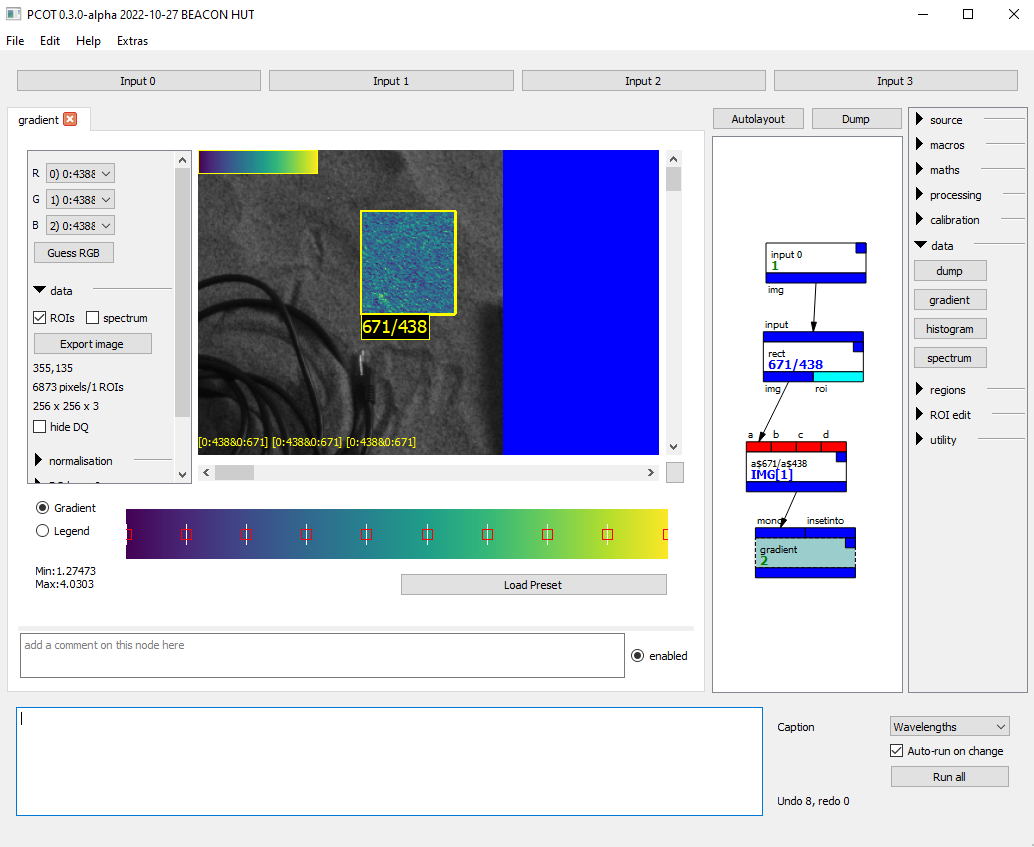
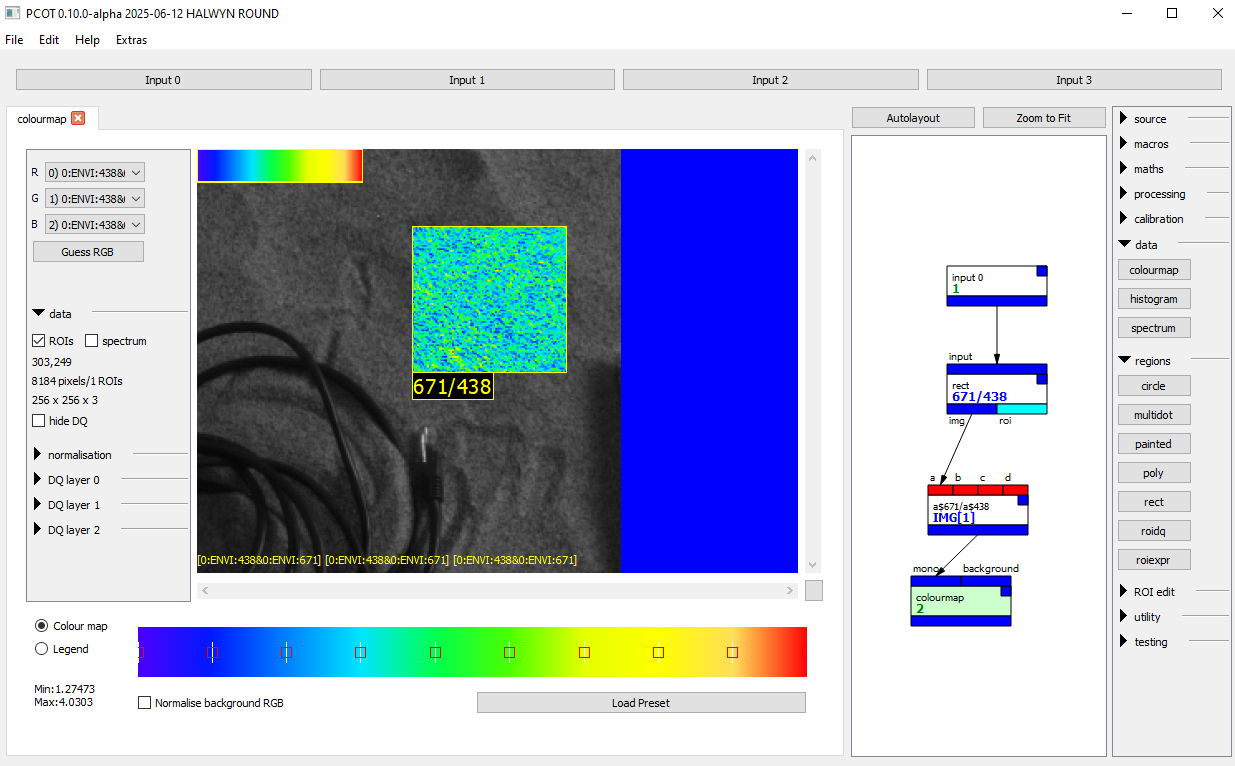
changes to docs for gradient rename to colourmap

diff --git a/mkdocs/docs/gettingstarted/tutorial.md b/mkdocs/docs/gettingstarted/tutorial.md
@@ -323,29 +323,29 @@ It can be hard to adjust the rectangle when you can't see what's happening in th
 on the tab, so you can edit
 the rectangle while the *expr* output is visible. ==Dock it again by closing the undocked window==.
 
-To make things more visible still, ==open the *data* section and add a *gradient* node after the *expr* node and view it==, clicking
+To make things more visible still, ==open the *data* section and add a *colourmap* node after the *expr* node and view it==, clicking
 making sure **Show ROIs** is enabled on its canvas (ROIs are typically retained on derived
 images):
 
-![!R671_438 with a rectangle and gradient|R671_438d](R671_438d.png)
+![!R671_438 with a rectangle and colourmap|R671_438d](R671_438d.png)
 
+The *colourmap* node creates a false colour image.
 There's not much to see because of the nature of the image, unfortunately! Note that there is a "legend"
 at top left, and this can be ==edited and placed by clicking on the Legend button==:
 
-![!R671_438 with a better gradient legend|R671_438da](R671_438da.png)
+![!R671_438 with a better colourmap legend|R671_438da](R671_438da.png)
 
-The colour palette for the gradient, incidentally, is the "viridis" palette which is helpful for people
+The colour palette for the colourmap, incidentally, is the "viridis" palette which is helpful for people
 with certain kinds of colour blindness[^2]. Other presets are available
-by clicking on the **Load Preset** button, or you can edit the gradient
+by clicking on the **Load Preset** button, or you can edit the colour "gradient"
 by hand: double-click to add or remove a point, drag to move a point.
 
-
-It is possible to "inset" the gradient into the RGB representation used in the *input* node by passing
-that to the *insetinto* input of the gradient:
+It is possible to "inset" the false colour image from *colourmap* into the RGB representation used in the *input* node by passing
+that to the *background* input of the *colourmap*:
 
 ![!R671_438 inset into source image RGB representation|R671_438e](R671_438e.png)
 
-If you ==switch to the Legend part of the *gradient* node== and
+If you ==switch to the Legend part of the *colourmap* node== and
 ==select *Left margin* for the **Legend** item==, when you ==export the image==
 with the canvas' Export Image button the legend will be in the margin:
 

diff --git a/mkdocs/docs/gettingstarted/concepts.md b/mkdocs/docs/gettingstarted/concepts.md
@@ -32,8 +32,8 @@ has a direction, going from the output of one node to the input
 of another, and there can't be any loops.
 
 As an example, consider that we might want
-to overlay some kind of spectral parameter map, converted to a colour
-gradient, over an RGB image (note: I'm not a geologist, I'm a software
+to overlay some kind of spectral parameter map, converted to a false colour image
+and inset into an RGB image (note: I'm not a geologist, I'm a software
 engineer, so perhaps this is a very artificial example). One way to do it
 might be this:
 
@@ -60,7 +60,7 @@ calculates the result of a mathematical expression performed on each pixel. The 
 is running: ```a$671 / a$438```.
 This will read the bands whose wavelengths are 671nm and 438nm in the node's *a* input, and find their ratio for every pixel.
 The result will be a single-band image. *Expr* nodes can perform much more complex calculations than this.
-* The *gradient* node will convert a single-band image into an RGB image with a user-defined gradient and
+* The *colourmap* node will convert a single-band image into an RGB image with a user-defined "gradient" map and
 inset it into the RGB representation of another image - here we are insetting into the input image, using
 the RGB representation used by that node.
 

diff --git a/mkdocs/docs/devguide/nodeser.md b/mkdocs/docs/devguide/nodeser.md
@@ -201,8 +201,8 @@ which tells us which type it is - a "discriminator".
 @@@info
 **Where to find examples**
 
-Probably the most complex but straightforward example of CTAS is the *gradient* node. This
-converts a monochrome image to a false colour RGB gradient based on a set of gradient colours. This
+Probably the most complex but straightforward example of CTAS is the *colourmap* node. This
+converts a monochrome image to a false colour RGB image based on a "gradient" of colours. This
 exists as a pcot.utils.gradient.Gradient object which is a wrapper around a list of (x,(r,g,b)) tuples
 defining the colour *r,g,b* at value *x*. 
 

diff --git a/mkdocs/docs/roadmap.md b/mkdocs/docs/roadmap.md
@@ -8,6 +8,7 @@ This is a rough guide, and things may change!
 setups in an extensible format
 * Flatfield calibration code
 * Reflectance calibration code
+* "gradient" renamed to "colourmap"
 
 ## Previous release 0.9.0
 
